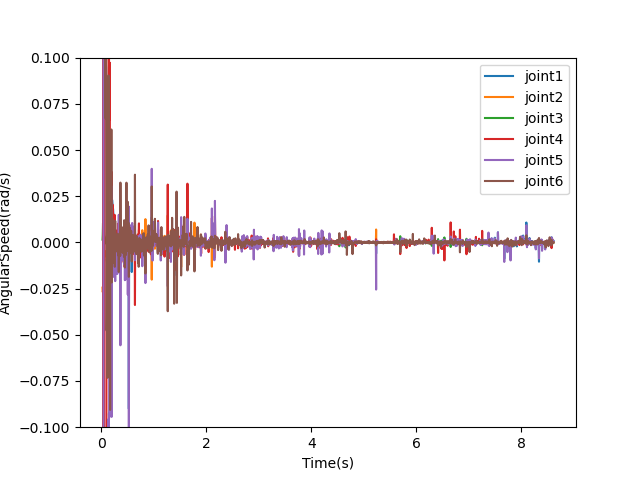
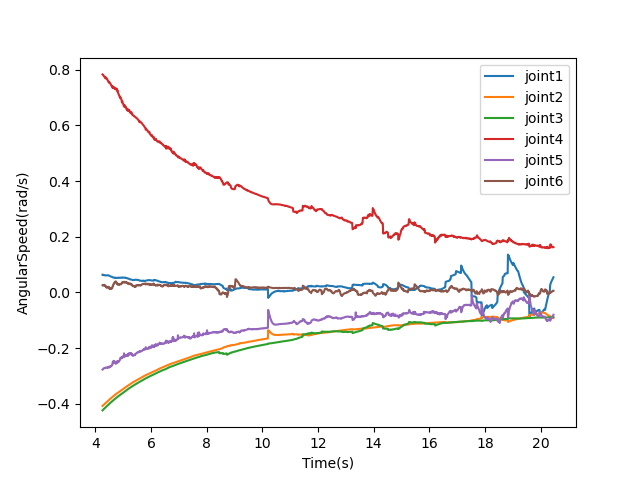
Added the speed estimation.

diff --git a/InverseKinematics/UR5E_Inverse_Kinematics.py b/InverseKinematics/UR5E_Inverse_Kinematics.py
@@ -28,6 +28,10 @@ fixed_orientation = [1.0, 0.0, 0.0, 0.0]
 draw_end_effector_coordinate = True
 calculate_wrist_orientation_self = True
 plot_angles = True
+calculate_reference_speed = True
+
+if calculate_reference_speed:
+    import statsmodels.api as sm
 
 
 class ur5e_robot_inverse_kinematics(ur5_robot_inverse_kinematics):
@@ -125,7 +129,7 @@ class ur5e_robot_inverse_kinematics(ur5_robot_inverse_kinematics):
             use_elbow_pos=True,
             use_self_kinematics=True
     ) -> list[float]:
-        now_ang = [self.get_joint_angle_rad(index) for index in self.available_joints_indices]
+        arm_now_ang = [self.get_joint_angle_rad(index) for index in self.available_joints_indices]
         # Arm inverse kinematics
         _angles = self.arm_calculate_inverse_kinematics(
             target_position=[target_positions[target_joint] for target_joint in [2, 1]]) \
@@ -139,7 +143,7 @@ class ur5e_robot_inverse_kinematics(ur5_robot_inverse_kinematics):
         _angles[3:6] = ang[0]
 
         return unwind_angle_list(
-            [0] * len(_angles), unwind_angle_list(now_ang, _angles), period=4 * math.pi, step_size=2 * math.pi,
+            [0] * len(_angles), unwind_angle_list(arm_now_ang, _angles), period=4 * math.pi, step_size=2 * math.pi,
         )
 
     def draw_end_effector_coordinate(self, target_orientation: list[float]) -> None:
@@ -178,6 +182,21 @@ class ur5e_robot_inverse_kinematics(ur5_robot_inverse_kinematics):
         return self.display_demonstrate_flag if self.show_gui else True
 
 
+def estimate_speed_given_positions(position: list[float], time_stamp: list[float]) -> float:
+    if len(position) != len(time_stamp):
+        raise ValueError(
+            f'The data length of position is {len(position)} while which of time_stamp is {len(time_stamp)}')
+    if (len(position) < 20) or not calculate_reference_speed:
+        return 0
+    else:
+        position_new = position[-10:]
+        time_stamp_new = time_stamp[-10:]
+        weight = numpy.array([(w + 1) ** 2 for w in range(len(position_new))])
+        weight = (weight / weight.sum()).tolist()
+        fitted = sm.WLS(sm.add_constant(position_new), time_stamp_new, weights=weight).fit()
+        return fitted.params.tolist()[0][1]
+
+
 if __name__ == "__main__":
     disp_human_demonstrate_file = '../DemonstrateData/demo4.pkl'
     # disp_human_demonstrate_file = '../DemonstrateData/humanDemonstrate.h5'
@@ -207,9 +226,9 @@ if __name__ == "__main__":
                 target_pos = target_pos[:3]
                 target_ori = [target_ori[0]]
                 # WARNING: Negative Position Z in both position and orientation, flipped along the YZ plane meanwhile.
-                for i in range(3):
-                    target_pos[i][0] = -target_pos[i][0]
-                    target_pos[i][1] = -target_pos[i][1]
+                # for i in range(3):
+                #     target_pos[i][0] = -target_pos[i][0]
+                #     target_pos[i][1] = -target_pos[i][1]
                 target_pos[2][0] += 0.1
                 target_pos[1][2] += 0.2
                 # target_pos[2][2] += 0.3
@@ -222,16 +241,25 @@ if __name__ == "__main__":
                     # Draw orientation coordinate
                     simulation.draw_end_effector_coordinate(target_ori[0])
                 # Step simulation
-                last_ang = numpy.array(simulation.ctrl_command) if simulation.ctrl_command is not None else [
-                    simulation.get_joint_angle_rad(joint_index) for joint_index in simulation.available_joints_indices]
                 if simulation.given_demonstrate_data_step_simulation(target_pos, target_ori[0]):
+                    # Record control command data
                     delta_time = time.time() - start_time
+                    ctrl_angles.append(simulation.ctrl_command)
+                    ctrl_time.append(delta_time)
                     # TODO: This is the real control command.
-                    angular_speed = ((numpy.array(simulation.ctrl_command) - last_ang) / delta_time).tolist()
-                    if plot_angles:
-                        ctrl_angles.append(simulation.ctrl_command)
-                        ctrl_time.append(delta_time)
-                        ctrl_angular_speed.append(angular_speed)
+                    target_angular_speed = [
+                        estimate_speed_given_positions(numpy.array(ctrl_angles).T.tolist()[joint][-20:],
+                                                       ctrl_time[-20:]) for joint
+                        in range(simulation.available_joints_num)]
+                    now_ang = [simulation.get_joint_angle_rad(joint_index) for joint_index in
+                               simulation.available_joints_indices]
+                    angular_speed_cmd = (numpy.array(target_angular_speed) + 0.5 * (
+                            numpy.array(simulation.ctrl_command) - numpy.array(now_ang))).tolist()
+                    ctrl_angular_speed.append(angular_speed_cmd)
+                    if len(ctrl_angular_speed) > 1500:
+                        ctrl_angles = ctrl_angles[-1500:]
+                        ctrl_time = ctrl_time[-1500:]
+                        ctrl_angular_speed = ctrl_angular_speed[-1500:]
                     loop_index = loop_index + 1
                     if loop_index >= data_length:
                         break
@@ -251,10 +279,9 @@ if __name__ == "__main__":
             plt.show()
 
             plt.figure(2)
-            plt.plot(ctrl_time[1:], ctrl_angular_speed[1:])
+            plt.plot(ctrl_time, ctrl_angular_speed)
             plt.legend(['joint' + str(i + 1) for i in range(6)])
             plt.xlabel('Time(s)')
             plt.ylabel('AngularSpeed(rad/s)')
-            plt.ylim([-0.1, 0.1])
             plt.savefig('../Output/ctrlAngularSpeed.png')
             plt.show()

diff --git a/InverseKinematics/UR5_Inverse_Kinematics.py b/InverseKinematics/UR5_Inverse_Kinematics.py
@@ -279,10 +279,10 @@ def read_frame_demonstrate_data(data: Any, index: int, need_calculate_ori: bool,
         # Calculate rotation matrix
         x_vector = [2 * numpy.array(middle_pos[i]) - (numpy.array(index_finger_pos[i]) + numpy.array(ring_finger_pos[i]))
                     for i in range(2)]
-        x_vector = [vec / numpy.linalg.norm(vec) for vec in x_vector]
+        x_vector = [-vec / numpy.linalg.norm(vec) for vec in x_vector]
         z_vector = [numpy.cross(x_vector[i], numpy.array(index_finger_pos[i]) - numpy.array(ring_finger_pos[i]))
                     for i in range(2)]
-        z_vector = [vec / numpy.linalg.norm(vec) for vec in z_vector]
+        z_vector = [-vec / numpy.linalg.norm(vec) for vec in z_vector]
         y_vector = [numpy.cross(z_vector[i], x_vector[i]) for i in range(2)]
         y_vector = [vec / numpy.linalg.norm(vec) for vec in y_vector]
         # Get quaternion
